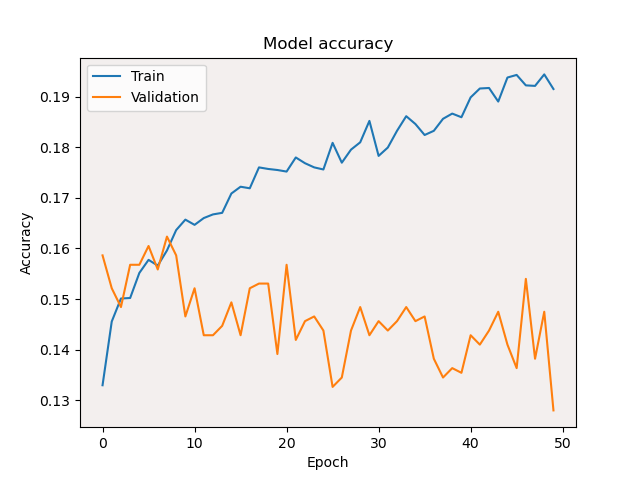
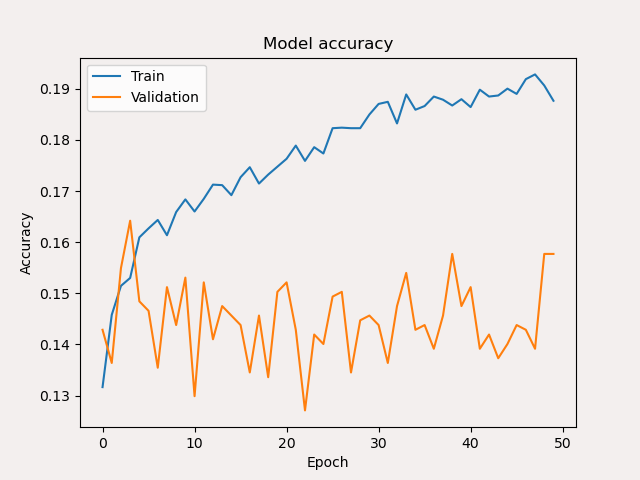
update the background color

diff --git a/script/data_vis_2.py b/script/data_vis_2.py
@@ -50,7 +50,9 @@ plt.ylabel("Game")
 plt.legend(title="Metric", bbox_to_anchor=(1.05, 1), loc='upper left')
 
 plt.tight_layout()
-plt.savefig("../image/average_scores_by_game.png")
+fig = plt.gcf()
+fig.set_facecolor('#f3efee')
+plt.savefig("../image/average_scores_by_game.png", facecolor= fig.get_facecolor())
 plt.show()
 
 # barplot for average scores of GAD, SWL, and SPIN by age group
@@ -72,7 +74,9 @@ plt.ylabel("Average Score")
 plt.legend(title="Metric")
 
 plt.tight_layout()
-plt.savefig("../image/average_scores_by_age_group.png")
+fig = plt.gcf()
+fig.set_facecolor('#f3efee')
+plt.savefig("../image/average_scores_by_age_group.png", facecolor=fig.get_facecolor())
 plt.show()
 
 
@@ -84,6 +88,6 @@ plt.pie(age['Proportion'], labels=age['Age Group'], autopct='%1.1f%%', startangl
 plt.title('Proportion of Gamers by Age Group')
 plt.axis('equal')
 
-plt.savefig("../image/porportions_by_age_group.png")
+plt.savefig("../image/porportions_by_age_group.png", facecolor=fig.get_facecolor())
 plt.show()
 

diff --git a/script/ml.py b/script/ml.py
@@ -94,7 +94,9 @@ for clf_name, clf in classifiers.items():
     plt.ylabel('True Positive Rate')
     plt.title(f'{clf_name} Multi-class ROC')
     plt.legend(loc="lower right")
-    plt.savefig(f'../ml_image/{clf_name}_ROC.png')
+    fig = plt.gcf()
+    fig.set_facecolor('#f3efee')
+    plt.savefig(f'../ml_image/{clf_name}_ROC.png',facecolor=fig.get_facecolor())
     plt.close()
 
     # Plot confusion matrix
@@ -122,5 +124,7 @@ ax.set_facecolor('#f3efee')
 plt.scatter(y_test, y_test - y_pred_reg, color = "blue", s = 10, label = 'Test data')
 plt.hlines(y = 0, xmin = 0, xmax = 50, linewidth = 2)
 plt.title('Residual errors')
-plt.savefig(f'../ml_image/LinearRegression_Residuals.png')
+fig = plt.gcf()
+fig.set_facecolor('#f3efee')
+plt.savefig(f'../ml_image/LinearRegression_Residuals.png', facecolor=fig.get_facecolor())
 plt.close()

diff --git a/script/dl.py b/script/dl.py
@@ -55,7 +55,9 @@ plt.title('Model accuracy')
 plt.ylabel('Accuracy')
 plt.xlabel('Epoch')
 plt.legend(['Train', 'Validation'], loc='upper left')
-plt.savefig('../dl_result/model_accuracy.png')
+fig = plt.gcf()
+fig.set_facecolor('#f3efee')
+plt.savefig('../dl_result/model_accuracy.png',facecolor=fig.get_facecolor())
 plt.show()
 
 ax = plt.subplot()
@@ -66,5 +68,7 @@ plt.title('Model loss')
 plt.ylabel('Loss')
 plt.xlabel('Epoch')
 plt.legend(['Train', 'Validation'], loc='upper left')
-plt.savefig('../dl_result/model_loss.png')
+fig = plt.gcf()
+fig.set_facecolor('#f3efee')
+plt.savefig('../dl_result/model_loss.png',facecolor=fig.get_facecolor())
 plt.show()

diff --git a/script/data_visualization.py b/script/data_visualization.py
@@ -25,7 +25,7 @@ axes[2].set_title("Distribution of Total SPIN Scores")
 axes[2].set_facecolor('#f3efee') 
 
 plt.tight_layout()
-plt.savefig('../image/distribution_plot.jpg')
+plt.savefig('../image/distribution_plot.jpg', facecolor=fig.get_facecolor())
 plt.show()
 
 
@@ -41,6 +41,6 @@ plt.ylabel("Total GAD Scores")
 plt.xlim(-1, (data['Hours'].quantile(0.95)+1))
 plt.ylim((data['GAD_T'].min()-1), (data['GAD_T'].max()+2)) 
 
-plt.savefig('../image/relationship_plot.jpg')
+plt.savefig('../image/relationship_plot.jpg', facecolor=fig.get_facecolor())
 plt.show()
 
